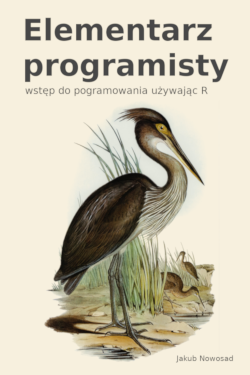
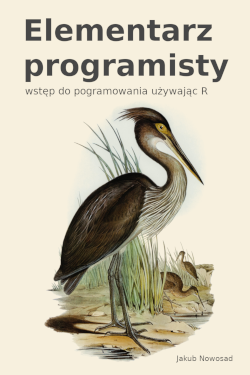
adds high resolution cover

diff --git a/style/before_body.tex b/style/before_body.tex
@@ -1,5 +1,5 @@
 \thispagestyle{empty}
-\includepdf{cover/cover.png}
+\includepdf{cover/cover_hr.png}
 
 \let\maketitle\oldmaketitle
 \maketitle
